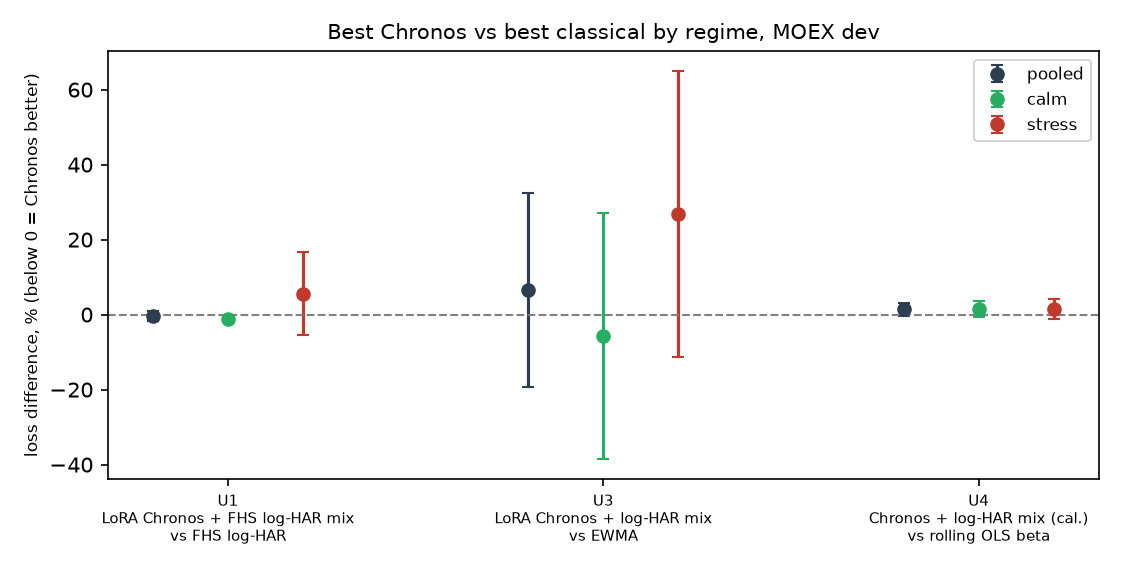
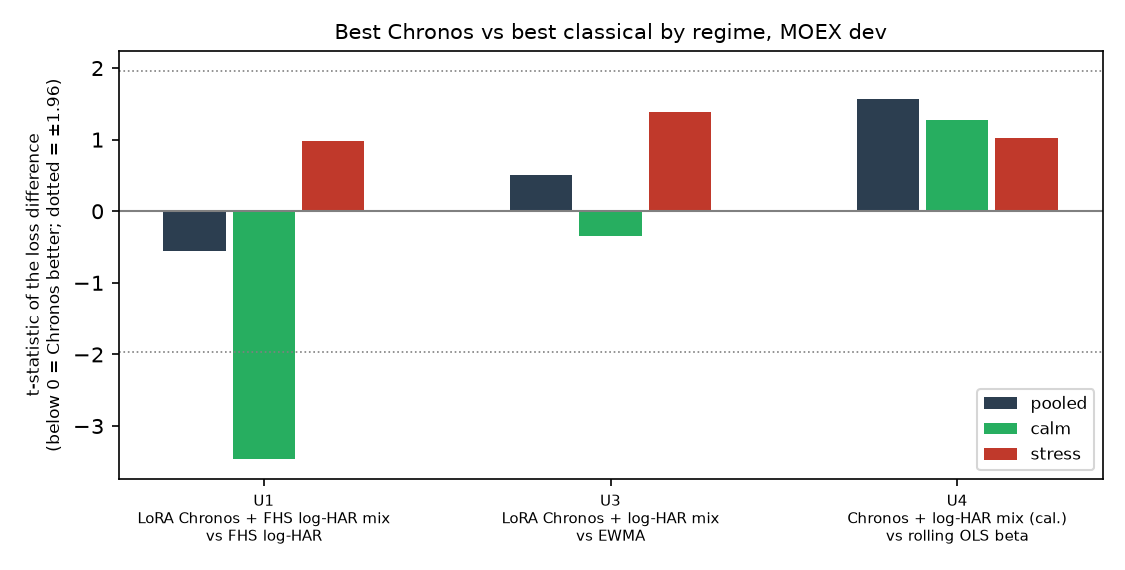
Risk study write-up: holdout results section (claims table, losses, VaR coverage, regimes, F2-vs-zero-shot, notes and deviations, conclusions); holdout comparison table derived from results.json only; holdout figures; regime figure now in t-statistics (scale-free, comparable across periods); report-

diff --git a/forecasting/risk_experiment/diagnostics/holdout_comparisons.py b/forecasting/risk_experiment/diagnostics/holdout_comparisons.py
@@ -1,0 +1,54 @@
+"""Holdout comparison table for the figures, derived from the committed results.json only (nothing recomputed).
+
+  .venv/bin/python forecasting/risk_experiment/diagnostics/holdout_comparisons.py
+
+Within a use, every arm's per-date loss series lives on the same dates, so mean(L_a − L_b) = mean_a − mean_b,
+and the Newey-West standard error is that difference over the DM t. C vs B by regime comes from the stored
+calm/stress mean and standard error. Percentages are relative to the reference arm's pooled mean loss (the dev
+table used regime-specific means; the holdout results do not store them). Writes results/holdout/comparisons.csv.
+"""
+import json
+import sys
+from pathlib import Path
+
+import numpy as np
+import pandas as pd
+
+HERE = Path(__file__).resolve().parents[1]
+sys.path.insert(0, str(HERE)); sys.path.insert(0, str(HERE / "colab"))
+from holdout_run import FROZEN  # noqa: E402
+
+
+def main():
+    R = json.loads((HERE / "results" / "holdout" / "results.json").read_text())
+    rows = []
+    for use in ("U1", "U3", "U4"):
+        r, f = R[use], FROZEN[use]
+        c, b, refs = f["C"], f["B"], f["refs"]
+        m = r["mean_loss"]
+        pairs = [(b, r["L2_vs_B"]["t"])] + [(x, r[f"L1_vs_{x}"]["t"]) for x in refs if x != b]
+        for ref, t in pairs:
+            diff = m[c] - m[ref]
+            se = abs(diff / t) if t else np.nan
+            scale = 100 / abs(m[ref])
+            rows.append({"use": use, "arm": c, "ref": ref, "regime": "pooled", "n": r["n_dates"], "t": t,
+                         "diff_pct": diff * scale, "lo_pct": (diff - 1.96 * se) * scale, "hi_pct": (diff + 1.96 * se) * scale})
+        for reg in ("calm", "stress"):
+            d = r[f"diff_vs_B_{reg}"]
+            scale = 100 / abs(m[b])
+            rows.append({"use": use, "arm": c, "ref": b, "regime": reg, "n": d["n"], "t": d["t"],
+                         "diff_pct": d["mean"] * scale, "lo_pct": (d["mean"] - 1.96 * d["se"]) * scale,
+                         "hi_pct": (d["mean"] + 1.96 * d["se"]) * scale})
+    for ref in ("ewma", "garch", FROZEN["U2"]["B"]):
+        x = R["U2"][f"fee_vs_{ref}"]
+        rows.append({"use": "U2", "arm": FROZEN["U2"]["C"], "ref": ref, "regime": "pooled", "n": R["U2"]["n_dates"],
+                     "fee_bps": x["bps"], "fee_p": x["p"]})
+    C = pd.DataFrame(rows)
+    out = HERE / "results" / "holdout" / "comparisons.csv"
+    C.to_csv(out, index=False)
+    print(C.round(3).to_string())
+    print(f"saved {out}")
+
+
+if __name__ == "__main__":
+    main()

diff --git a/forecasting/risk_experiment/holdout_run.py b/forecasting/risk_experiment/holdout_run.py
@@ -361,6 +361,32 @@ def report_twins(period: str) -> pd.DataFrame:
     return T
 
 
+def report_coverage(period: str) -> pd.DataFrame:
+    """U1 VaR coverage of the frozen and reference arms at 5% on the confirmatory universe (reported, not
+    claimed): pooled hit rate, Kupiec p, share of names rejected by Christoffersen independence."""
+    if period == "holdout" and not (rr.OUT / "holdout" / "results.json").exists():
+        raise SystemExit("run the single confirmatory evaluation first (plan J)")
+    D, S, inb, ine = setup(period)
+    A = build_arms(period, D, inb)
+    y1 = D["ret"].shift(-1)
+    names = (FROZEN["U1"]["C"], FROZEN["U1"]["B"], *FROZEN["U1"]["refs"])
+    M = D["eligible"] & ine & y1.notna()
+    for k in names:
+        M &= A[k][0].lt(0) & A[k][1].lt(A[k][0])
+    rows = []
+    for k in names:
+        hits = (y1 < A[k][0]).where(M)
+        h = hits.stack().dropna().to_numpy()
+        rows.append({"arm": k, "hit_rate": float(h.mean()), "kupiec_p": rl.kupiec(h, 0.05)["p"], "n_obs": int(h.size),
+                     "christoffersen_reject_share": float(np.mean([rl.christoffersen(hits[t].dropna().to_numpy(), 0.05)["p_ind"] < 0.05
+                                                                   for t in hits.columns if hits[t].notna().sum() > 100]))})
+    T = pd.DataFrame(rows)
+    out_dir = rr.OUT / ("dryrun" if period == "dev" else "holdout")
+    T.to_csv(out_dir / "coverage_report.csv", index=False)
+    print(T.to_string())
+    return T
+
+
 def main(mode: str):
     if mode == "sources":
         return stage_sources()
@@ -369,7 +395,9 @@ def main(mode: str):
     if mode in ("report_dev", "report"):
         if mode == "report" and not unlocked():
             raise SystemExit("holdout locked")
-        return report_twins("dev" if mode == "report_dev" else "holdout")
+        per = "dev" if mode == "report_dev" else "holdout"
+        report_coverage(per)
+        return report_twins(per)
     if mode == "evaluate" and not unlocked():
         raise SystemExit("holdout locked: needs HOLDOUT_UNLOCK=1 and a committed pre-registration block")
     period = "dev" if mode == "dryrun" else "holdout"

diff --git a/forecasting/risk_experiment/make_figures.py b/forecasting/risk_experiment/make_figures.py
@@ -52,7 +52,8 @@ def forest(C: pd.DataFrame, period: str, out: Path):
 
 
 def regimes(C: pd.DataFrame, period: str, out: Path):
-    """Best Chronos arm vs best classical arm, pooled / calm / stress."""
+    """Best Chronos arm vs best classical arm, pooled / calm / stress, as Newey-West t-statistics (scale-free,
+    so dev and holdout are comparable; |t| > 1.96 is significant at 5% two-sided)."""
     first = C[C["use"].isin(USES)].groupby("use").head(1)[["use", "arm", "ref"]]
     fig, ax = plt.subplots(figsize=(7.5, 3.8))
     offs = {"pooled": -0.2, "calm": 0.0, "stress": 0.2}
@@ -60,12 +61,14 @@ def regimes(C: pd.DataFrame, period: str, out: Path):
     for i, (_, r) in enumerate(first.iterrows()):
         for reg, o in offs.items():
             x = C[(C["use"] == r["use"]) & (C["arm"] == r["arm"]) & (C["ref"] == r["ref"]) & (C["regime"] == reg)].iloc[0]
-            ax.errorbar(i + o, x["diff_pct"], yerr=[[x["diff_pct"] - x["lo_pct"]], [x["hi_pct"] - x["diff_pct"]]],
-                        fmt="o", color=cols[reg], capsize=3, label=reg if i == 0 else None)
-    ax.axhline(0, color="grey", lw=1, ls="--")
+            t = x["diff_pct"] / ((x["hi_pct"] - x["lo_pct"]) / (2 * 1.96))
+            ax.bar(i + o, t, width=0.18, color=cols[reg], label=reg if i == 0 else None)
+    for y in (-1.96, 1.96):
+        ax.axhline(y, color="grey", lw=0.8, ls=":")
+    ax.axhline(0, color="grey", lw=1)
     ax.set_xticks(range(len(first)))
     ax.set_xticklabels([f"{u}\n{nice(a)}\nvs {nice(b)}" for u, a, b in first.itertuples(index=False)], fontsize=7)
-    ax.set_ylabel("loss difference, % (below 0 = Chronos better)", fontsize=8)
+    ax.set_ylabel("t-statistic of the loss difference\n(below 0 = Chronos better; dotted = ±1.96)", fontsize=8)
     ax.set_title(f"Best Chronos vs best classical by regime, MOEX {period}", fontsize=10)
     ax.legend(fontsize=8)
     fig.tight_layout()

diff --git a/forecasting/risk_experiment/README.md b/forecasting/risk_experiment/README.md
@@ -132,9 +132,82 @@ U2 fees with bootstrap CIs.
 - **Pretraining overlap:** it is unknown whether MOEX series were in Chronos-2's pretraining data.
 <!-- PREREG_END -->
 
-## Holdout results
+## Holdout results (opened once, 2026-09-25)
 
-_Pending: written here after the single holdout evaluation._
+Evaluated once with the code committed at `7b93e90`; the confirmatory code is unchanged since the
+pre-registration commit `e0f0c45`. Raw output: [`results/holdout/results.json`](results/holdout/results.json).
+
+**Verdict: parity with the best classical risk models, no demonstrated advantage.** The two "not worse" claims
+pass by a wide margin; no "better than" claim survives the Holm correction, including the calm-day claim.
+
+![Holdout: Chronos vs classical](../../docs/figures/risk_holdout_forest.png)
+
+### Confirmatory claims
+
+| Claim | Holdout statistic | Raw p | After Holm |
+|---|---|---|---|
+| **Not worse, U1** VaR/ES (δ 0.0630 FZ0) | mean(C − B) −0.012, upper 95% bound +0.003 | 8e-17 | ✅ pass |
+| **Not worse, U4** hedging (δ +0.5 pp vol) | mean(C − B) −2.0e-5, upper bound 1.3e-5 (δ 6.6e-5) | 8e-6 | ✅ pass |
+| L1 U1: beats RiskMetrics and GARCH-t | t −1.87 / −2.37 | 0.031 | ❌ (needs ≤ 0.010) |
+| R: U1 beats FHS log-HAR on calm days | t −1.31 (381 calm days) | 0.095 | ❌ |
+| L1 U2: beats EWMA and GARCH (fee) | +243 bps (p 0.03) / −72 bps (p 0.71) | 0.713 | ❌ |
+| L1 U3: beats EWMA and GARCH | t +1.40 / −0.67 | 0.920 | ❌ |
+| L1 U4: beats EWMA and GARCH | t −0.06 / −2.10 | 0.477 | ❌ |
+| L2 (any use) | not tested: no L1 passed | — | — |
+
+### Losses per use
+
+| Use | Chronos arm (C) | Best classical (B) | References |
+|---|---|---|---|
+| U1 FZ0 (lower is better) | **−3.0819** | −3.0697 (C − B: t −1.34) | GARCH-t −3.0426, RiskMetrics −3.0317 |
+| U1 5% VaR hit rate (Kupiec p) | 4.77% (0.056) | 4.98% (0.90) | RiskMetrics 5.35% (0.004), GARCH-t 5.65% (1e-7) |
+| U2 fee of C vs each arm (bps/yr) | — | −128 vs log-HAR on portfolio RV | +243 vs EWMA, −72 vs GARCH |
+| U3 GMV annual vol | 17.74% | **EWMA 16.85%** | GARCH 18.29% |
+| U4 hedged annual vol | **31.13%** | OLS beta 31.30% (C − B: t −1.01) | EWMA 31.14%, GARCH 31.62% |
+
+### Regimes (secondary: no pooled claim passed, so nothing is claimed)
+
+![Holdout: by regime](../../docs/figures/risk_holdout_regimes.png)
+
+- **U1:** Chronos is ahead of FHS log-HAR on calm days (t −1.31) and on stress days (t −0.35); both are
+  insignificant. The dev calm-day effect (t −4.0) shrank to a third, which is the expected winner's curse of
+  picking the best of 265 dev variants.
+- **U3:** the dev pattern reversed. Chronos is worse than EWMA on calm days (t +2.79) and better on stress
+  days (t −1.60; Giacomini-White p 0.012).
+- **U4:** no regime difference (GW p 0.54).
+- "Chronos is better in calm markets" does not hold as a general rule.
+
+### Reported, not claimed
+- **Fine-tuned vs zero-shot (F2 vs N1, [`results/holdout/twins_report.csv`](results/holdout/twins_report.csv)):**
+  the dev gain did not replicate for VaR (mix t +1.07, raw +0.34: F2 slightly worse). For GMV it keeps the dev
+  direction but is insignificant (mix t −0.57, raw −0.63). Fine-tuning shows no demonstrated gain.
+- **VaR coverage** ([`results/holdout/coverage_report.csv`](results/holdout/coverage_report.csv)): the table
+  above; Christoffersen independence rejected for 15% of names for C and 12% for B.
+- **Not produced:** the other items listed under "Reported but not claimed" (calibrated vs raw, mixture vs
+  components, N1 vs Z1/Z2, N4 vs daily, N5/N6 vs Z3, per-year descriptives, U2 fee CIs). Procedure step 2
+  limited the holdout sources to those of the frozen arms, so their inputs were never generated; the two
+  sections of the pre-registration conflicted, and step 2 was followed.
+
+### Notes and deviations
+- **Start date:** the pre-registration says the holdout starts 2025-01-02; the first trading day in the
+  panel is 2025-01-03. The day count (434) is correct.
+- **Dates per use:** U1 uses 433 forecast dates (1-day horizon), U2/U3 429 (5-day horizon), U4 395 (windows
+  containing an MX futures roll are dropped for all arms).
+- **Extra source (plan J):** zero-shot N1 holdout forecasts were generated after the pre-registration for the
+  F2-vs-zero-shot report only; the twin and coverage reports are separate, report-only code (additions only).
+- **Fine-tuned holdout folds:** 2025 (trained ≤ 2024, lr 1e-4) and 2026 (trained ≤ 2025, lr 3e-5), both
+  checked for exact coverage of every eligible stock-day before scoring
+  ([`results/holdout/ft_records_holdout.csv`](results/holdout/ft_records_holdout.csv)).
+
+### What this study shows
+- A pretrained foundation model, zero-shot or lightly fine-tuned and mixed with a classical model, reaches
+  the level of the best classical risk models on MOEX: not worse for VaR/ES and hedging, with the best point
+  estimate in both, but no significant advantage in any use.
+- On dev, mixing with a classical model is what made Chronos competitive (not re-tested on the holdout).
+  Calibration, covariates and the correlation-side model showed no gain on dev, and the dev gain from
+  multivariate fine-tuning did not replicate on the holdout.
+- Dev-period advantages (calm-day VaR, fine-tuning) shrank or vanished on the holdout, as expected after
+  265 trials. Without the holdout, this study would have reported them as findings.
 
 ## Code
 - [`risk_run.py`](risk_run.py): dev stages (sources, arms, evaluation per use, N5, N6, fine-tuned arms).
